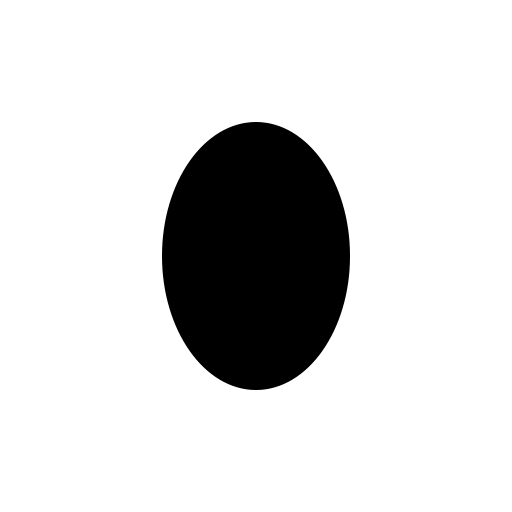
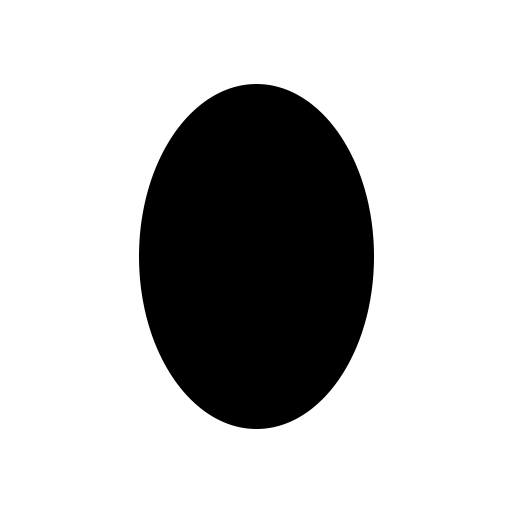
Update mask setup

Changed region(s): [[0.25, 0.1562, 0.75, 0.8438]]

diff --git a/cameraScreen/src/androidMain/kotlin/com/solanamobile/krate/camerascreen/Actual.Android.kt b/cameraScreen/src/androidMain/kotlin/com/solanamobile/krate/camerascreen/Actual.Android.kt
@@ -10,9 +10,12 @@ import androidx.camera.core.ImageProxy
 import androidx.camera.core.Preview
 import androidx.camera.lifecycle.ProcessCameraProvider
 import androidx.camera.view.PreviewView
+import androidx.compose.foundation.Image
 import androidx.compose.foundation.layout.Box
 import androidx.compose.foundation.layout.PaddingValues
+import androidx.compose.foundation.layout.aspectRatio
 import androidx.compose.foundation.layout.fillMaxSize
+import androidx.compose.foundation.layout.fillMaxWidth
 import androidx.compose.foundation.layout.padding
 import androidx.compose.foundation.layout.size
 import androidx.compose.foundation.shape.CircleShape
@@ -25,14 +28,9 @@ import androidx.compose.runtime.LaunchedEffect
 import androidx.compose.runtime.remember
 import androidx.compose.ui.Alignment
 import androidx.compose.ui.Modifier
-import androidx.compose.ui.draw.drawWithContent
-import androidx.compose.ui.geometry.Offset
-import androidx.compose.ui.geometry.Size
-import androidx.compose.ui.graphics.BlendMode
 import androidx.compose.ui.graphics.Color
 import androidx.compose.ui.graphics.ImageBitmap
 import androidx.compose.ui.graphics.asImageBitmap
-import androidx.compose.ui.layout.onSizeChanged
 import androidx.compose.ui.platform.LocalContext
 import androidx.compose.ui.platform.LocalLifecycleOwner
 import androidx.compose.ui.unit.dp
@@ -77,6 +75,7 @@ private val executor = Executors.newSingleThreadExecutor()
 @OptIn(ExperimentalResourceApi::class)
 @Composable
 actual fun CameraPreview(
+    maskImage: ImageBitmap,
     photoTaken: (ImageBitmap) -> Unit
 ) {
     val context = LocalContext.current
@@ -109,90 +108,67 @@ actual fun CameraPreview(
 
     var (screenWidth, screenHeight) = remember { Pair(0, 0) }
 
-    Box(
-        modifier = Modifier
-            .onSizeChanged {
-                screenWidth = it.width
-                screenHeight = it.height
-            }
-            .drawWithContent {
-                drawContent()
+    Box {
+        AndroidView(
+            modifier = Modifier.fillMaxSize(),
+            factory = { previewView },
+        )
 
-                drawRect(
-                    Color.Black,
-                    alpha = 0.3f
+        Image(
+            modifier = Modifier
+                .align(Alignment.Center)
+                .fillMaxWidth()
+                .aspectRatio(1f),
+            bitmap = maskImage,
+            contentDescription = null
+        )
+
+        Button(
+            modifier = Modifier
+                .align(Alignment.BottomCenter)
+                .padding(
+                    bottom = 16.dp
                 )
+                .navBarBottomPadding()
+                .size(84.dp),
+            shape = CircleShape,
+            contentPadding = PaddingValues(4.dp),
+            colors = ButtonDefaults.buttonColors(
+                backgroundColor = MaterialTheme.colors.primary,
+                contentColor = Color.White
+            ),
+            onClick = {
+                imageCapture.takePicture(executor, object : ImageCapture.OnImageCapturedCallback() {
+                    override fun onCaptureSuccess(image: ImageProxy) {
+                        val byteArray: ByteArray = image.planes[0].buffer.moveToByteArray()
 
-                val ovalW = 180.dp.toPx()
-                val ovalH = 265.dp.toPx()
+                        val srcPhoto = BitmapFactory.decodeByteArray(byteArray, 0, byteArray.size)
 
-                drawOval(
-                    color = Color.Red,
-                    size = Size(
-                        width = ovalW,
-                        height = ovalH
-                    ),
-                    topLeft = Offset(
-                        x = (screenWidth / 2) - (ovalW / 2),
-                        y = (screenHeight / 2) - (ovalH / 2)
-                    ),
-                    blendMode = BlendMode.Clear
-                )
-            }
-    ) {
-        Box {
-            AndroidView(
-                modifier = Modifier.fillMaxSize(),
-                factory = { previewView },
-            )
+                        val rotatedBmp = if (srcPhoto.height > srcPhoto.width) {
+                            val rotMat = Matrix()
+                            rotMat.setRotate(90f)
 
-            Button(
-                modifier = Modifier
-                    .align(Alignment.BottomCenter)
-                    .padding(
-                        bottom = 16.dp
-                    )
-                    .navBarBottomPadding()
-                    .size(84.dp),
-                shape = CircleShape,
-                contentPadding = PaddingValues(4.dp),
-                colors = ButtonDefaults.buttonColors(
-                    backgroundColor = MaterialTheme.colors.primary,
-                    contentColor = Color.White
-                ),
-                onClick = {
-                    imageCapture.takePicture(executor, object : ImageCapture.OnImageCapturedCallback() {
-                        override fun onCaptureSuccess(image: ImageProxy) {
-                            val byteArray: ByteArray = image.planes[0].buffer.moveToByteArray()
-
-                            val srcPhoto = BitmapFactory.decodeByteArray(byteArray, 0, byteArray.size)
-
-                            val rotatedBmp = if (srcPhoto.height > srcPhoto.width) {
-                                val rotMat = Matrix()
-                                rotMat.setRotate(90f)
-
-                                Bitmap.createBitmap(srcPhoto, 0, 0, srcPhoto.width, srcPhoto.height, rotMat, false)
-                            } else {
-                                srcPhoto
-                            }
-
-                            val (w, h) = rotatedBmp.width to rotatedBmp.height
-                            val squareImg = Bitmap.createBitmap(rotatedBmp, 0, ((h.toDouble() - w.toDouble()) / 2).toInt(), w, w)
-
-                            val imageBitmap = squareImg.asImageBitmap()
-                            image.close()
-
-                            photoTaken(imageBitmap)
+                            Bitmap.createBitmap(srcPhoto, 0, 0, srcPhoto.width, srcPhoto.height, rotMat, false)
+                        } else {
+                            srcPhoto
                         }
 
-                    })
-                }
-            ) {
-                Text(
-                    text = "START",
-                    style = MaterialTheme.typography.h6
-                )
+                        val (w, h) = rotatedBmp.width to rotatedBmp.height
+                        val squareImg = Bitmap.createBitmap(rotatedBmp, 0, ((h.toDouble() - w.toDouble()) / 2).toInt(), w, w)
+
+                        val imageBitmap = squareImg.asImageBitmap()
+                        image.close()
+
+                        photoTaken(imageBitmap)
+                    }
+
+                })
             }
+        ) {
+            Text(
+                text = "START",
+                style = MaterialTheme.typography.h6
+            )
         }
     }
 }

diff --git a/cameraScreen/src/commonMain/kotlin/com/solanamobile/krate/camerascreen/CameraScreen.kt b/cameraScreen/src/commonMain/kotlin/com/solanamobile/krate/camerascreen/CameraScreen.kt
@@ -15,6 +15,7 @@ import androidx.compose.material.Text
 import androidx.compose.runtime.Composable
 import androidx.compose.runtime.mutableStateOf
 import androidx.compose.runtime.remember
+import androidx.compose.runtime.rememberCoroutineScope
 import androidx.compose.ui.Modifier
 import androidx.compose.ui.graphics.Color
 import androidx.compose.ui.graphics.ImageBitmap
@@ -22,7 +23,9 @@ import androidx.compose.ui.layout.ContentScale
 import androidx.compose.ui.unit.dp
 import androidx.compose.ui.unit.sp
 import cafe.adriel.voyager.core.screen.Screen
+import com.solanamobile.krate.extension.compositionlocal.LocalResourceLocator
 import com.solanamobile.krate.extension.ui.ResourceImage
+import kotlinx.coroutines.launch
 
 class CameraScreen: Screen {
 
@@ -36,8 +39,16 @@ class CameraScreen: Screen {
 fun CameraScreenContent() {
     val permissionState = getPermissionState()
 
+    val scope = rememberCoroutineScope()
     var isPhotoTaken = remember { mutableStateOf(false) }
     var takenPhoto = remember { mutableStateOf<ImageBitmap?>(null) }
+
+    val resources = LocalResourceLocator.current
+
+    val mask = remember { mutableStateOf<ImageBitmap?>(null) }
+    scope.launch {
+        mask.value = resources.getImageBitmap("photo_overlay.png")
+    }
 
     Box(
         modifier = Modifier
@@ -84,13 +95,16 @@ fun CameraScreenContent() {
                 )
             }
         } else if (!isPhotoTaken.value) {
-            CameraPreview(
-                photoTaken = {
-                    takenPhoto.value = it
+            mask.value?.let { maskImage ->
+                CameraPreview(
+                    maskImage = maskImage,
+                    photoTaken = {
+                        takenPhoto.value = it
 
-                    isPhotoTaken.value = true
-                }
-            )
+                        isPhotoTaken.value = true
+                    }
+                )
+            }
         } else {
             takenPhoto.value?.let {
                 Image(
@@ -116,5 +130,6 @@ expect fun getPermissionState(): PermissionState
 
 @Composable
 expect fun CameraPreview(
+    maskImage: ImageBitmap,
     photoTaken: (ImageBitmap) -> Unit
 )

diff --git a/cameraScreen/src/iosMain/kotlin/com/solanamobile/krate/camerascreen/Actual.iOS.kt b/cameraScreen/src/iosMain/kotlin/com/solanamobile/krate/camerascreen/Actual.iOS.kt
@@ -16,6 +16,7 @@ actual fun getPermissionState(): PermissionState {
 
 @Composable
 actual fun CameraPreview(
+    maskImage: ImageBitmap,
     photoTaken: (ImageBitmap) -> Unit
 ) {
     TODO()
